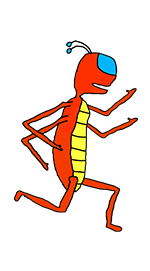
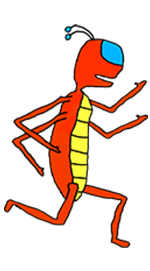
Edited the frames of the running animation

Changed region(s): [[0.0267, 0.0886, 0.9867, 0.9151]]

diff --git a/src/scenes/Play.js b/src/scenes/Play.js
@@ -11,6 +11,9 @@ class Play extends Phaser.Scene {
         // Load player sprites.
         //this.load.image('AntRunning', 'assets/AntRunSequence.gif');
         this.load.image('AntFalling', 'assets/AntFalling.png');
+
+        // Load player spritesheet for running.
+        this.load.spritesheet('AntRunning', 'assets/AntRunningSpritesheet.png', {frameWidth: 150, frameHeight: 271});
     }
 
     create(){
@@ -23,6 +26,14 @@ class Play extends Phaser.Scene {
         this.pause = this.add.image(720, 50, 'Pause');
 
         // Put running ant on screen.
+        this.antRunning = this.anims.create({
+            key: 'AntRunning',
+            frames: this.anims.generateFrameNumbers('AntRunning', {
+                start: 0, end: 3
+            }),
+            frameRate: 7
+        });
+
         this.antP1 = new Ant(this, 100, 200, 'AntFalling');
 
         //player sprite
@@ -35,7 +46,7 @@ class Play extends Phaser.Scene {
     update(){
         this.GPBG.tilePositionX += 1;
         // this.starfield.tilePositionX -= 4; //replace with actual background
-        
+
         //jump
         // if (Phaser.Input.Keyboard.JustDown(keySPACE)){
         //     //may need to be moved to player class

diff --git a/src/prefabs/Ant.js b/src/prefabs/Ant.js
@@ -6,7 +6,7 @@ class Ant extends Phaser.GameObjects.Sprite {
         // Used for animation.
         // If false, fall.
         // If true, run.
-        this.onGround = false;
+        this.onGround = true;
 
         // If false, use onGround's status.
         // If true, swim.
@@ -21,7 +21,7 @@ class Ant extends Phaser.GameObjects.Sprite {
         }
         else {
             // Falling.
-
+            
             this.y += 10;
         }
     }
